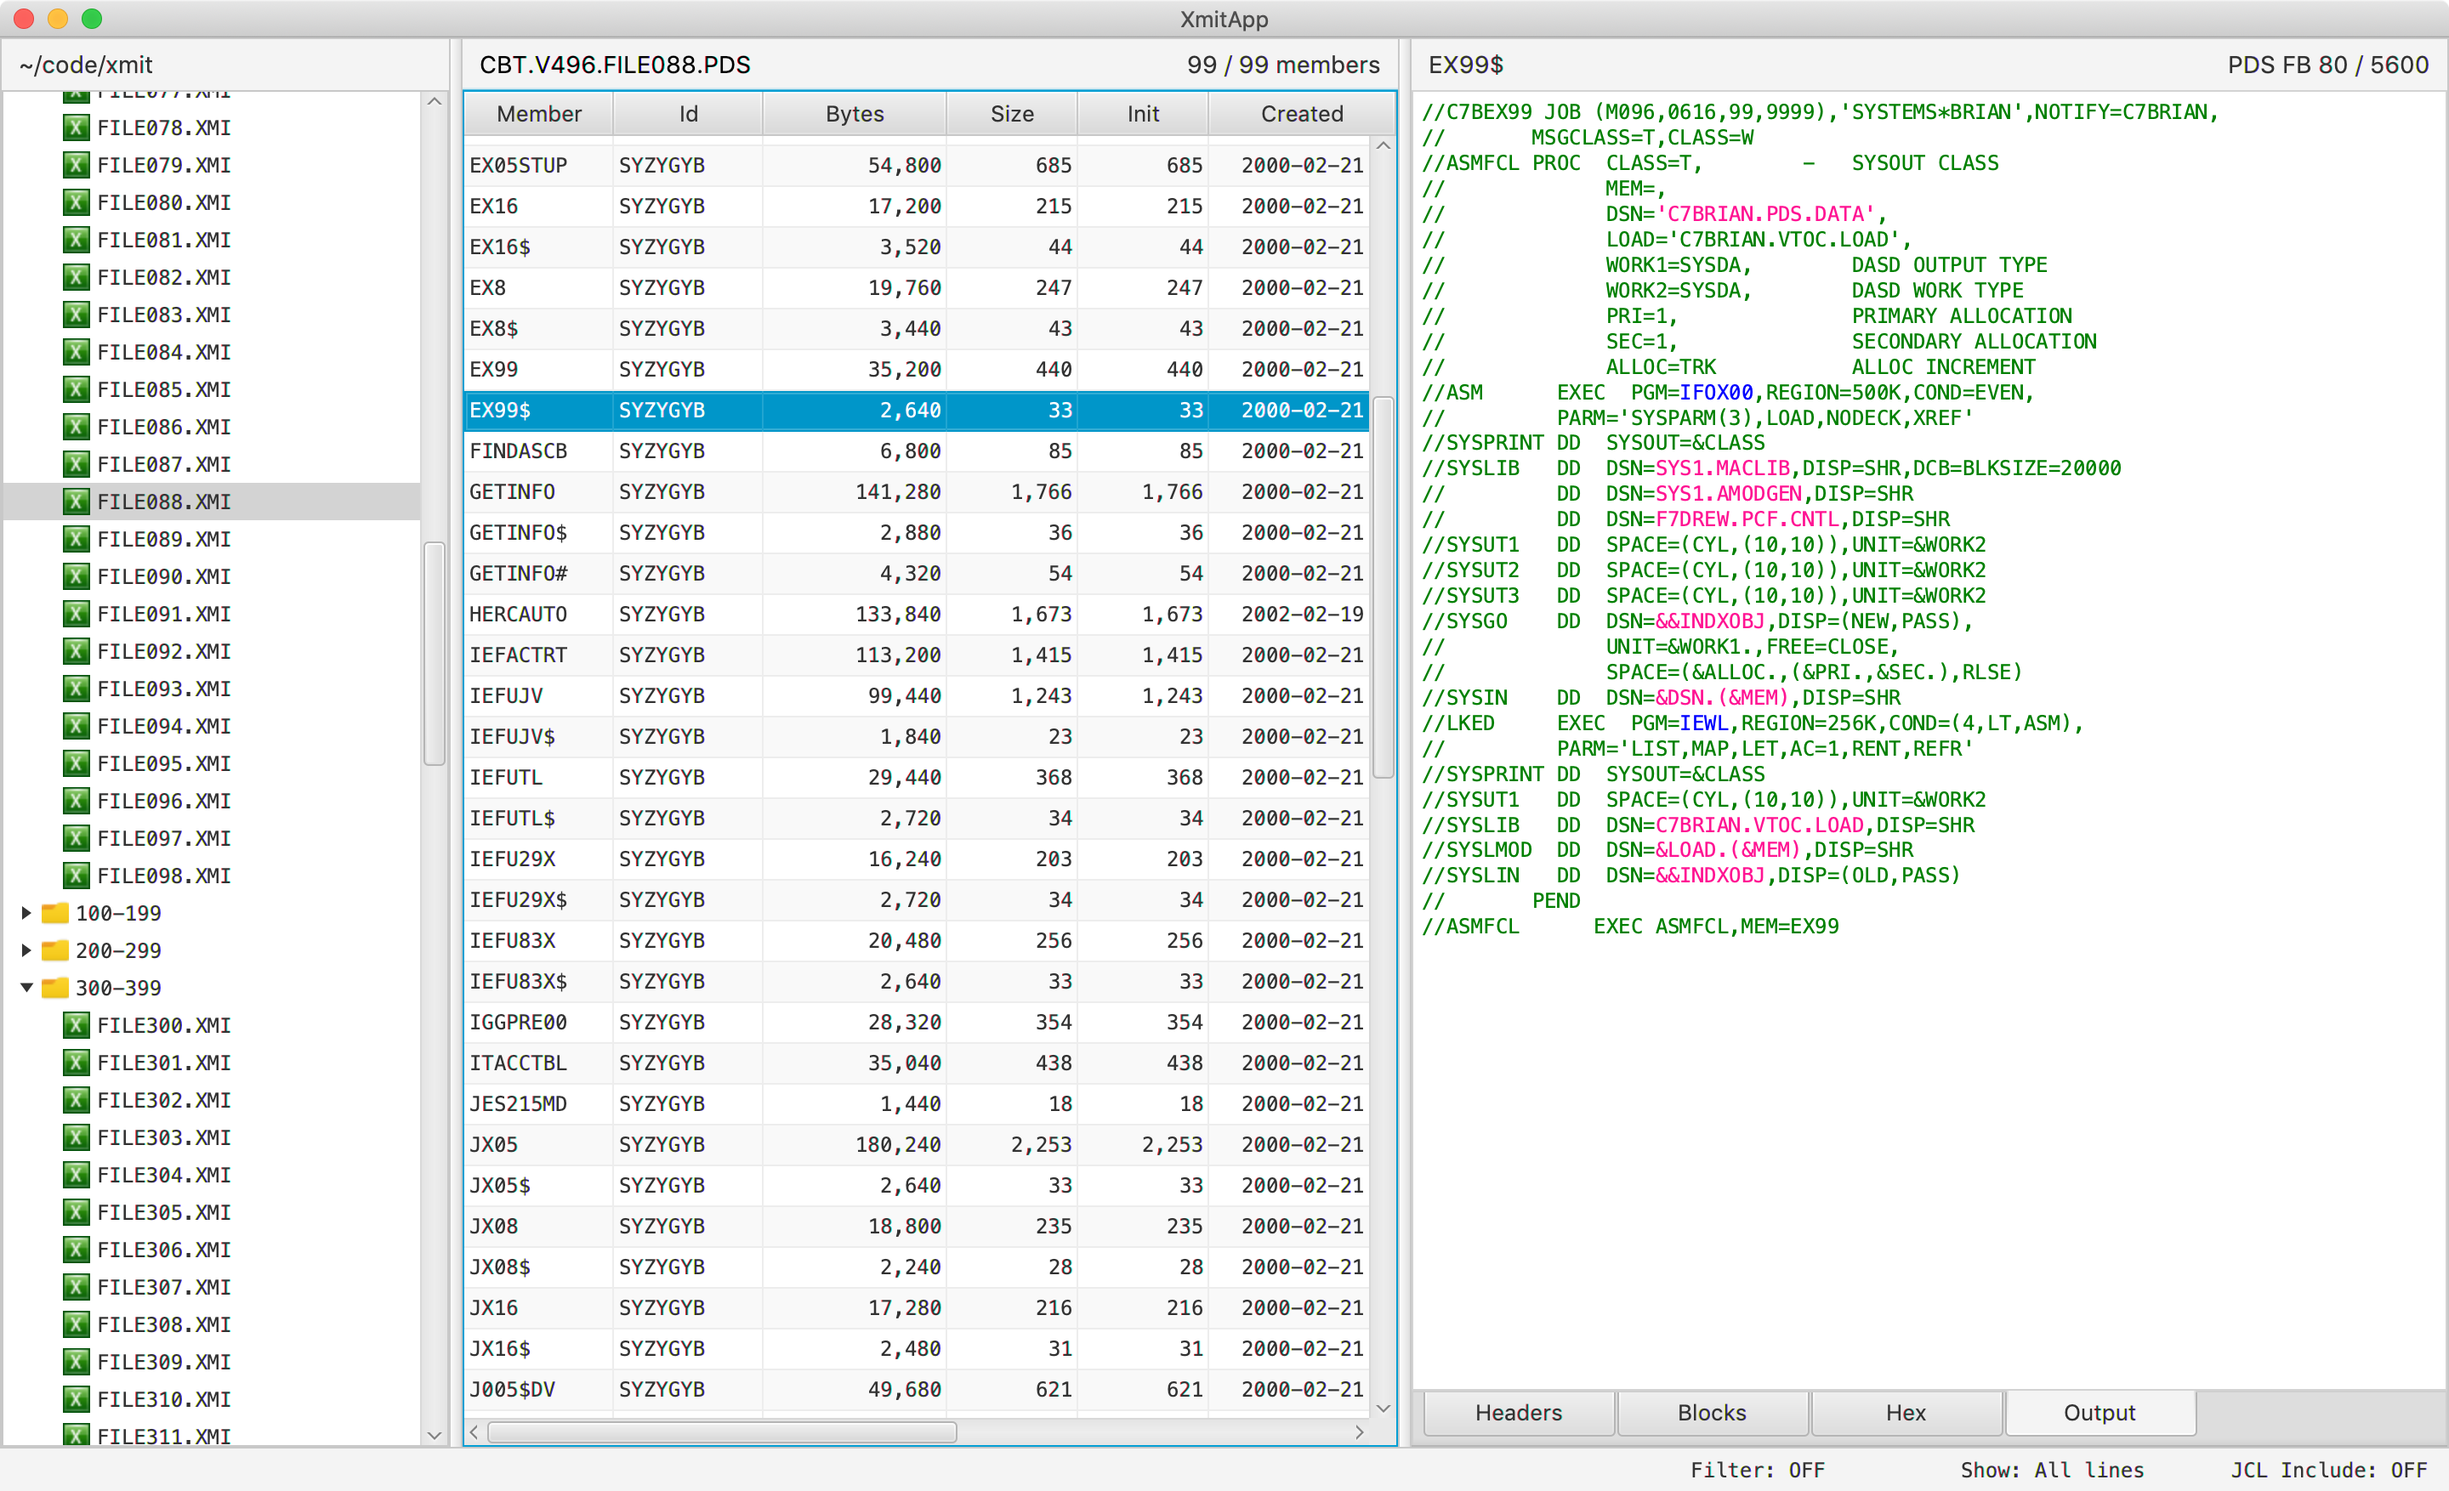
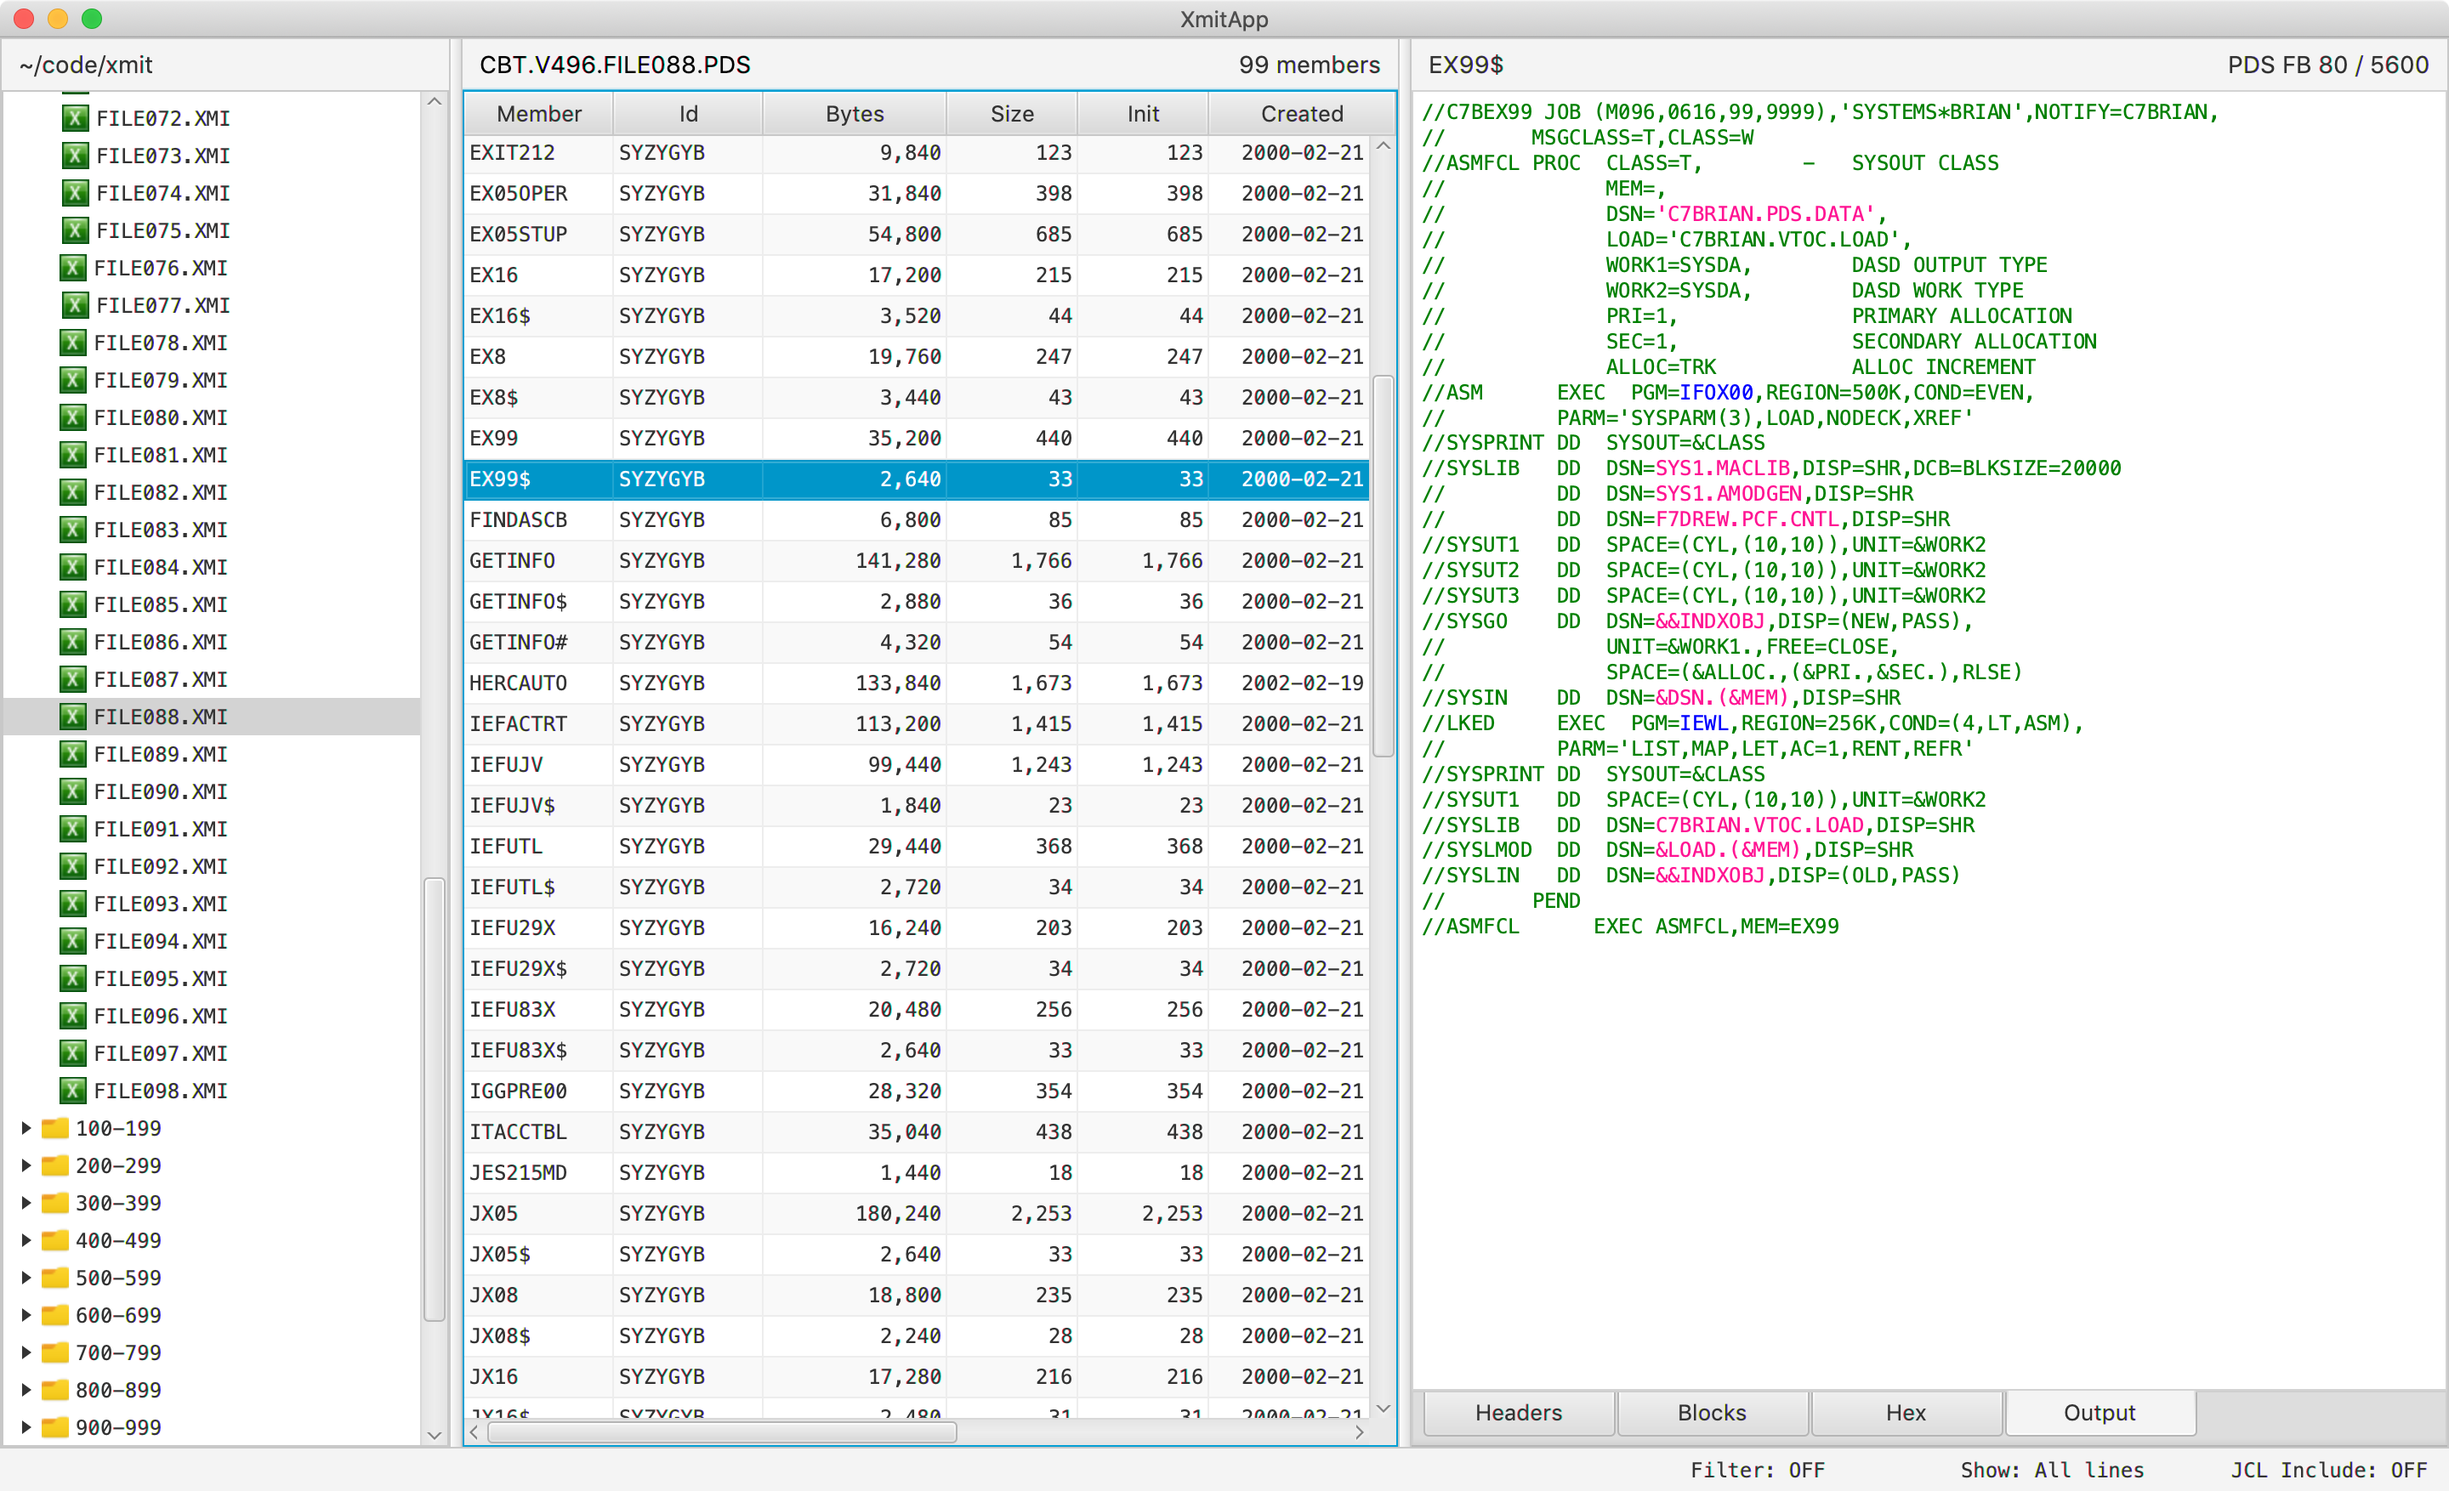
new screen

Changed region(s): [[0.0, 0.0616, 0.5625, 0.9852], [0.5, 0.0308, 0.5625, 0.0616]]

diff --git a/src/com/bytezone/xmit/gui/TableHeaderBar.java b/src/com/bytezone/xmit/gui/TableHeaderBar.java
@@ -14,6 +14,7 @@ public class TableHeaderBar extends HeaderBar
 {
   private String filterValue;
   private Dataset dataset;
+  private FilterMode filterMode;
 
   // ---------------------------------------------------------------------------------//
   @Override
@@ -41,7 +42,7 @@ public class TableHeaderBar extends HeaderBar
   public void filtering (int found, int max, boolean done)
   // ---------------------------------------------------------------------------------//
   {
-    if (done && !filterValue.isEmpty ())
+    if (done && !filterValue.isEmpty () && filterMode == FilterMode.ON)
       rightLabel
           .setText (String.format ("%d / %d member%s", found, max, max == 1 ? "" : "s"));
   }
@@ -52,6 +53,7 @@ public class TableHeaderBar extends HeaderBar
   // ---------------------------------------------------------------------------------//
   {
     this.filterValue = filter;
+    this.filterMode = filterMode;
     setMembersLabel ();
   }
 
